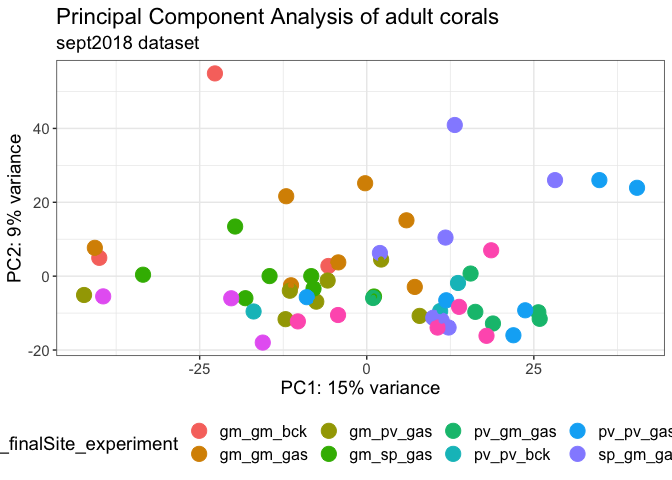
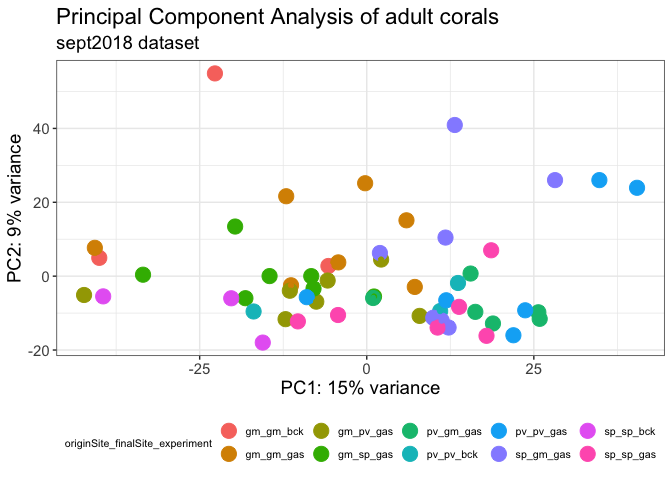
small modif

Changed region(s): [[0.0, 0.875, 1.0, 0.9688]]

diff --git a/R_scripts/DE_Astroides_adult_trueTransplant.md b/R_scripts/DE_Astroides_adult_trueTransplant.md
@@ -1238,7 +1238,7 @@ ggplot(pcaData, aes(PC1, PC2, colour = originSite_finalSite_experiment)) +
   geom_point(size = 5) + theme_bw() + 
   geom_point() +
   ggtitle("Principal Component Analysis of adult corals", subtitle = "may2018 dataset") +
-  theme(text = element_text(size=14),legend.text = element_text(size=12), legend.position = 'bottom') +
+  theme(text = element_text(size=14),legend.text = element_text(size=8), legend.title = element_text(size=8),legend.position = 'bottom') +
   xlab(paste0("PC1: ",percentVar[1],"% variance")) +
   ylab(paste0("PC2: ",percentVar[2],"% variance")) 
 ```
@@ -1477,16 +1477,14 @@ title(main, cex.main = 0.7)
 ``` r
 # Background & Transplant origin
 
-vsd = vst(ddsBckTro,blind=T)
-
 listGenes <- candidateGenes$genes
-listGenes2 <- which(rownames(vsd) %in% listGenes)
-index <- which(listGenes %in% rownames(vsd))
+listGenes2 <- which(rownames(vsdBckTro) %in% listGenes)
+index <- which(listGenes %in% rownames(vsdBckTro))
 candidateGenes2 <- candidateGenes[index, ] 
 listProt <- candidateGenes2$pfam_annotation
 listGenes3 <- candidateGenes2$genes
 
-vsdCandidate <- vsd[listGenes3, ]
+vsdCandidate <- vsdBckTro[listGenes3, ]
 
 labColName <- c('gm_gm_bck','gm_gm_bck','gm_gm_bck','gm_gm_tro','gm_gm_tro','gm_gm_tro','gm_gm_tro','gm_gm_tro',
                 'pv_pv_bck','pv_pv_bck','pv_pv_bck','pv_pv_tro','pv_pv_tro','pv_pv_tro','pv_pv_tro','pv_pv_tro','pv_pv_tro',
@@ -1516,16 +1514,14 @@ title(main, cex.main = 0.7)
 ``` r
 # True transplant
 
-vsd = vst(ddsTrt,blind=T)
-
 listGenes <- candidateGenes$genes
-listGenes2 <- which(rownames(vsd) %in% listGenes)
-index <- which(listGenes %in% rownames(vsd))
+listGenes2 <- which(rownames(vsdTrt) %in% listGenes)
+index <- which(listGenes %in% rownames(vsdTrt))
 candidateGenes2 <- candidateGenes[index, ] 
 listProt <- candidateGenes2$pfam_annotation
 listGenes3 <- candidateGenes2$genes
 
-vsdCandidate <- vsd[listGenes3, ]
+vsdCandidate <- vsdTrt[listGenes3, ]
 
 labColName <- c('gm_pv_trt','gm_pv_trt','gm_pv_trt','gm_pv_trt','gm_pv_trt','gm_sp_trt','gm_sp_trt',
                 'gm_sp_trt','gm_sp_trt','gm_sp_trt','pv_gm_trt','pv_gm_trt','pv_gm_trt','pv_gm_trt',
@@ -1555,40 +1551,106 @@ title(main, cex.main = 0.7)
 ``` r
 # Inferences statistics
 
-vsd = vst(dds,blind=T)
-count_tab_assay <- assay(vsd)
+# Background
+count_tab_assay <- assay(vsdBck)
 dist_tab_assay <- dist(t(count_tab_assay),method="euclidian")
-adonis(data=samples,dist_tab_assay ~ originSite_finalSite_experiment, method="euclidian")
+adonis(data=samplesBck,dist_tab_assay ~ originSite_finalSite_experiment, method="euclidian")
 ```
 
     ## 
     ## Call:
-    ## adonis(formula = dist_tab_assay ~ originSite_finalSite_experiment,      data = samples, method = "euclidian") 
+    ## adonis(formula = dist_tab_assay ~ originSite_finalSite_experiment,      data = samplesBck, method = "euclidian") 
     ## 
     ## Permutation: free
     ## Number of permutations: 999
     ## 
     ## Terms added sequentially (first to last)
     ## 
-    ##                                 Df SumsOfSqs MeanSqs F.Model     R2 Pr(>F)    
-    ## originSite_finalSite_experiment  9    261751   29083  1.4236 0.2737  0.001 ***
-    ## Residuals                       34    694583   20429         0.7263           
-    ## Total                           43    956334                 1.0000           
+    ##                                 Df SumsOfSqs MeanSqs F.Model      R2 Pr(>F)   
+    ## originSite_finalSite_experiment  2     36202   18101  1.5804 0.34504  0.004 **
+    ## Residuals                        6     68719   11453         0.65496          
+    ## Total                            8    104921                 1.00000          
     ## ---
     ## Signif. codes:  0 '***' 0.001 '**' 0.01 '*' 0.05 '.' 0.1 ' ' 1
 
 ``` r
-anova(betadisper(dist_tab_assay,samples$originSite_finalSite_experiment))
+anova(betadisper(dist_tab_assay,samplesBck$originSite_finalSite_experiment))
 ```
 
     ## Analysis of Variance Table
     ## 
     ## Response: Distances
-    ##           Df Sum Sq Mean Sq F value  Pr(>F)  
-    ## Groups     9 5809.8  645.53   2.674 0.01828 *
-    ## Residuals 34 8207.9  241.41                  
+    ##           Df  Sum Sq Mean Sq F value Pr(>F)
+    ## Groups     2  81.667  40.833  1.0844 0.3963
+    ## Residuals  6 225.937  37.656
+
+``` r
+# Transplant origin
+count_tab_assay <- assay(vsdTro)
+dist_tab_assay <- dist(t(count_tab_assay),method="euclidian")
+adonis(data=samplesTro,dist_tab_assay ~ originSite_finalSite_experiment, method="euclidian")
+```
+
+    ## 
+    ## Call:
+    ## adonis(formula = dist_tab_assay ~ originSite_finalSite_experiment,      data = samplesTro, method = "euclidian") 
+    ## 
+    ## Permutation: free
+    ## Number of permutations: 999
+    ## 
+    ## Terms added sequentially (first to last)
+    ## 
+    ##                                 Df SumsOfSqs MeanSqs F.Model      R2 Pr(>F)    
+    ## originSite_finalSite_experiment  2     72843   36422  1.8728 0.22367  0.001 ***
+    ## Residuals                       13    252823   19448         0.77633           
+    ## Total                           15    325666                 1.00000           
     ## ---
     ## Signif. codes:  0 '***' 0.001 '**' 0.01 '*' 0.05 '.' 0.1 ' ' 1
+
+``` r
+anova(betadisper(dist_tab_assay,samplesTro$originSite_finalSite_experiment))
+```
+
+    ## Analysis of Variance Table
+    ## 
+    ## Response: Distances
+    ##           Df Sum Sq Mean Sq F value Pr(>F)
+    ## Groups     2 1272.5  636.26  1.3505 0.2932
+    ## Residuals 13 6124.8  471.14
+
+``` r
+# Transplant true
+count_tab_assay <- assay(vsdTrt)
+dist_tab_assay <- dist(t(count_tab_assay),method="euclidian")
+adonis(data=samplesTrt,dist_tab_assay ~ originSite_finalSite_experiment, method="euclidian")
+```
+
+    ## 
+    ## Call:
+    ## adonis(formula = dist_tab_assay ~ originSite_finalSite_experiment,      data = samplesTrt, method = "euclidian") 
+    ## 
+    ## Permutation: free
+    ## Number of permutations: 999
+    ## 
+    ## Terms added sequentially (first to last)
+    ## 
+    ##                                 Df SumsOfSqs MeanSqs F.Model      R2 Pr(>F)   
+    ## originSite_finalSite_experiment  3     72429   24143  1.4348 0.22297  0.003 **
+    ## Residuals                       15    252408   16827         0.77703          
+    ## Total                           18    324836                 1.00000          
+    ## ---
+    ## Signif. codes:  0 '***' 0.001 '**' 0.01 '*' 0.05 '.' 0.1 ' ' 1
+
+``` r
+anova(betadisper(dist_tab_assay,samplesTrt$originSite_finalSite_experiment))
+```
+
+    ## Analysis of Variance Table
+    ## 
+    ## Response: Distances
+    ##           Df  Sum Sq Mean Sq F value Pr(>F)
+    ## Groups     3  486.74 162.246  1.7841 0.1933
+    ## Residuals 15 1364.12  90.941
 
 ``` r
 # Exporting results

diff --git a/R_scripts/DE_Astroides_adult_gardenShort.md b/R_scripts/DE_Astroides_adult_gardenShort.md
@@ -1335,7 +1335,7 @@ ggplot(pcaData, aes(PC1, PC2, colour = originSite_finalSite_experiment)) +
   geom_point(size = 5) + theme_bw() + 
   geom_point() +
   ggtitle("Principal Component Analysis of adult corals", subtitle = "sept2018 dataset") +
-  theme(text = element_text(size=14),legend.text = element_text(size=12), legend.position = 'bottom') +
+  theme(text = element_text(size=14),legend.text = element_text(size=8), legend.title = element_text(size=8),legend.position = 'bottom') +
   xlab(paste0("PC1: ",percentVar[1],"% variance")) +
   ylab(paste0("PC2: ",percentVar[2],"% variance")) 
 ```
@@ -1557,16 +1557,14 @@ title(main, cex.main = 0.7)
 ``` r
 # Background
 
-vsd = vst(ddsBck,blind=T)
-
 listGenes <- candidateGenes$genes
-listGenes2 <- which(rownames(vsd) %in% listGenes)
-index <- which(listGenes %in% rownames(vsd))
+listGenes2 <- which(rownames(vsdBck) %in% listGenes)
+index <- which(listGenes %in% rownames(vsdBck))
 candidateGenes2 <- candidateGenes[index, ] 
 listProt <- candidateGenes2$pfam_annotation
 listGenes3 <- candidateGenes2$genes
 
-vsdCandidate <- vsd[listGenes3, ]
+vsdCandidate <- vsdBck[listGenes3, ]
 
 labColName <- c('gm','gm','gm','pv','pv','pv','sp','sp','sp')
 
@@ -1594,16 +1592,16 @@ title(main, cex.main = 0.7)
 ``` r
 # Garden short
 
-vsd = vst(ddsGas,blind=T)
+vsdGas = vst(ddsGas,blind=T)
 
 listGenes <- candidateGenes$genes
-listGenes2 <- which(rownames(vsd) %in% listGenes)
-index <- which(listGenes %in% rownames(vsd))
+listGenes2 <- which(rownames(vsdGas) %in% listGenes)
+index <- which(listGenes %in% rownames(vsdGas))
 candidateGenes2 <- candidateGenes[index, ] 
 listProt <- candidateGenes2$pfam_annotation
 listGenes3 <- candidateGenes2$genes
 
-vsdCandidate <- vsd[listGenes3, ]
+vsdCandidate <- vsdGas[listGenes3, ]
 
 labColName <- c('gm_gm_gas','gm_gm_gas','gm_gm_gas','gm_gm_gas','gm_gm_gas','gm_gm_gas',
                 'gm_gm_gas','gm_pv_gas','gm_pv_gas','gm_pv_gas','gm_pv_gas','gm_pv_gas','gm_pv_gas','gm_pv_gas','gm_sp_gas',
@@ -1637,15 +1635,49 @@ title(main, cex.main = 0.7)
 ``` r
 # Inferences statistics
 
-vsd = vst(dds,blind=T)
-count_tab_assay <- assay(vsd)
+# Background
+count_tab_assay <- assay(vsdBck)
 dist_tab_assay <- dist(t(count_tab_assay),method="euclidian")
-adonis(data=samples,dist_tab_assay ~ originSite_finalSite_experiment, method="euclidian")
+adonis(data=samplesBck,dist_tab_assay ~ originSite_finalSite_experiment, method="euclidian")
 ```
 
     ## 
     ## Call:
-    ## adonis(formula = dist_tab_assay ~ originSite_finalSite_experiment,      data = samples, method = "euclidian") 
+    ## adonis(formula = dist_tab_assay ~ originSite_finalSite_experiment,      data = samplesBck, method = "euclidian") 
+    ## 
+    ## Permutation: free
+    ## Number of permutations: 999
+    ## 
+    ## Terms added sequentially (first to last)
+    ## 
+    ##                                 Df SumsOfSqs MeanSqs F.Model      R2 Pr(>F)  
+    ## originSite_finalSite_experiment  2     50623   25312  1.3608 0.31205  0.011 *
+    ## Residuals                        6    111606   18601         0.68795         
+    ## Total                            8    162229                 1.00000         
+    ## ---
+    ## Signif. codes:  0 '***' 0.001 '**' 0.01 '*' 0.05 '.' 0.1 ' ' 1
+
+``` r
+anova(betadisper(dist_tab_assay,samplesBck$originSite_finalSite_experiment))
+```
+
+    ## Analysis of Variance Table
+    ## 
+    ## Response: Distances
+    ##           Df Sum Sq Mean Sq F value Pr(>F)
+    ## Groups     2 1608.9  804.43  1.0091  0.419
+    ## Residuals  6 4783.0  797.17
+
+``` r
+# Garden short same sites
+count_tab_assay <- assay(vsdGasSame)
+dist_tab_assay <- dist(t(count_tab_assay),method="euclidian")
+adonis(data=samplesGasSame,dist_tab_assay ~ originSite_finalSite_experiment, method="euclidian")
+```
+
+    ## 
+    ## Call:
+    ## adonis(formula = dist_tab_assay ~ originSite_finalSite_experiment,      data = samplesGasSame, method = "euclidian") 
     ## 
     ## Permutation: free
     ## Number of permutations: 999
@@ -1653,22 +1685,56 @@ adonis(data=samples,dist_tab_assay ~ originSite_finalSite_experiment, method="eu
     ## Terms added sequentially (first to last)
     ## 
     ##                                 Df SumsOfSqs MeanSqs F.Model      R2 Pr(>F)    
-    ## originSite_finalSite_experiment  9    297026   33003  1.6421 0.24722  0.001 ***
-    ## Residuals                       45    904439   20099         0.75278           
-    ## Total                           54   1201465                 1.00000           
+    ## originSite_finalSite_experiment  2     58260   29130  1.8029 0.18391  0.001 ***
+    ## Residuals                       16    258525   16158         0.81609           
+    ## Total                           18    316785                 1.00000           
     ## ---
     ## Signif. codes:  0 '***' 0.001 '**' 0.01 '*' 0.05 '.' 0.1 ' ' 1
 
 ``` r
-anova(betadisper(dist_tab_assay,samples$originSite_finalSite_experiment))
+anova(betadisper(dist_tab_assay,samplesGasSame$originSite_finalSite_experiment))
+```
+
+    ## Analysis of Variance Table
+    ## 
+    ## Response: Distances
+    ##           Df  Sum Sq Mean Sq F value Pr(>F)
+    ## Groups     2   30.44  15.222  0.2186  0.806
+    ## Residuals 16 1114.42  69.651
+
+``` r
+# Garden short different sites
+count_tab_assay <- assay(vsdGasDiff)
+dist_tab_assay <- dist(t(count_tab_assay),method="euclidian")
+adonis(data=samplesGasDiff,dist_tab_assay ~ originSite_finalSite_experiment, method="euclidian")
+```
+
+    ## 
+    ## Call:
+    ## adonis(formula = dist_tab_assay ~ originSite_finalSite_experiment,      data = samplesGasDiff, method = "euclidian") 
+    ## 
+    ## Permutation: free
+    ## Number of permutations: 999
+    ## 
+    ## Terms added sequentially (first to last)
+    ## 
+    ##                                 Df SumsOfSqs MeanSqs F.Model      R2 Pr(>F)    
+    ## originSite_finalSite_experiment  3     79889   26630  1.6833 0.18003  0.001 ***
+    ## Residuals                       23    363867   15820         0.81997           
+    ## Total                           26    443756                 1.00000           
+    ## ---
+    ## Signif. codes:  0 '***' 0.001 '**' 0.01 '*' 0.05 '.' 0.1 ' ' 1
+
+``` r
+anova(betadisper(dist_tab_assay,samplesGasDiff$originSite_finalSite_experiment))
 ```
 
     ## Analysis of Variance Table
     ## 
     ## Response: Distances
     ##           Df Sum Sq Mean Sq F value Pr(>F)
-    ## Groups     9   3099  344.33   1.523 0.1691
-    ## Residuals 45  10174  226.08
+    ## Groups     3  282.0  94.014  0.5493 0.6537
+    ## Residuals 23 3936.6 171.155
 
 ``` r
 # Exporting results
